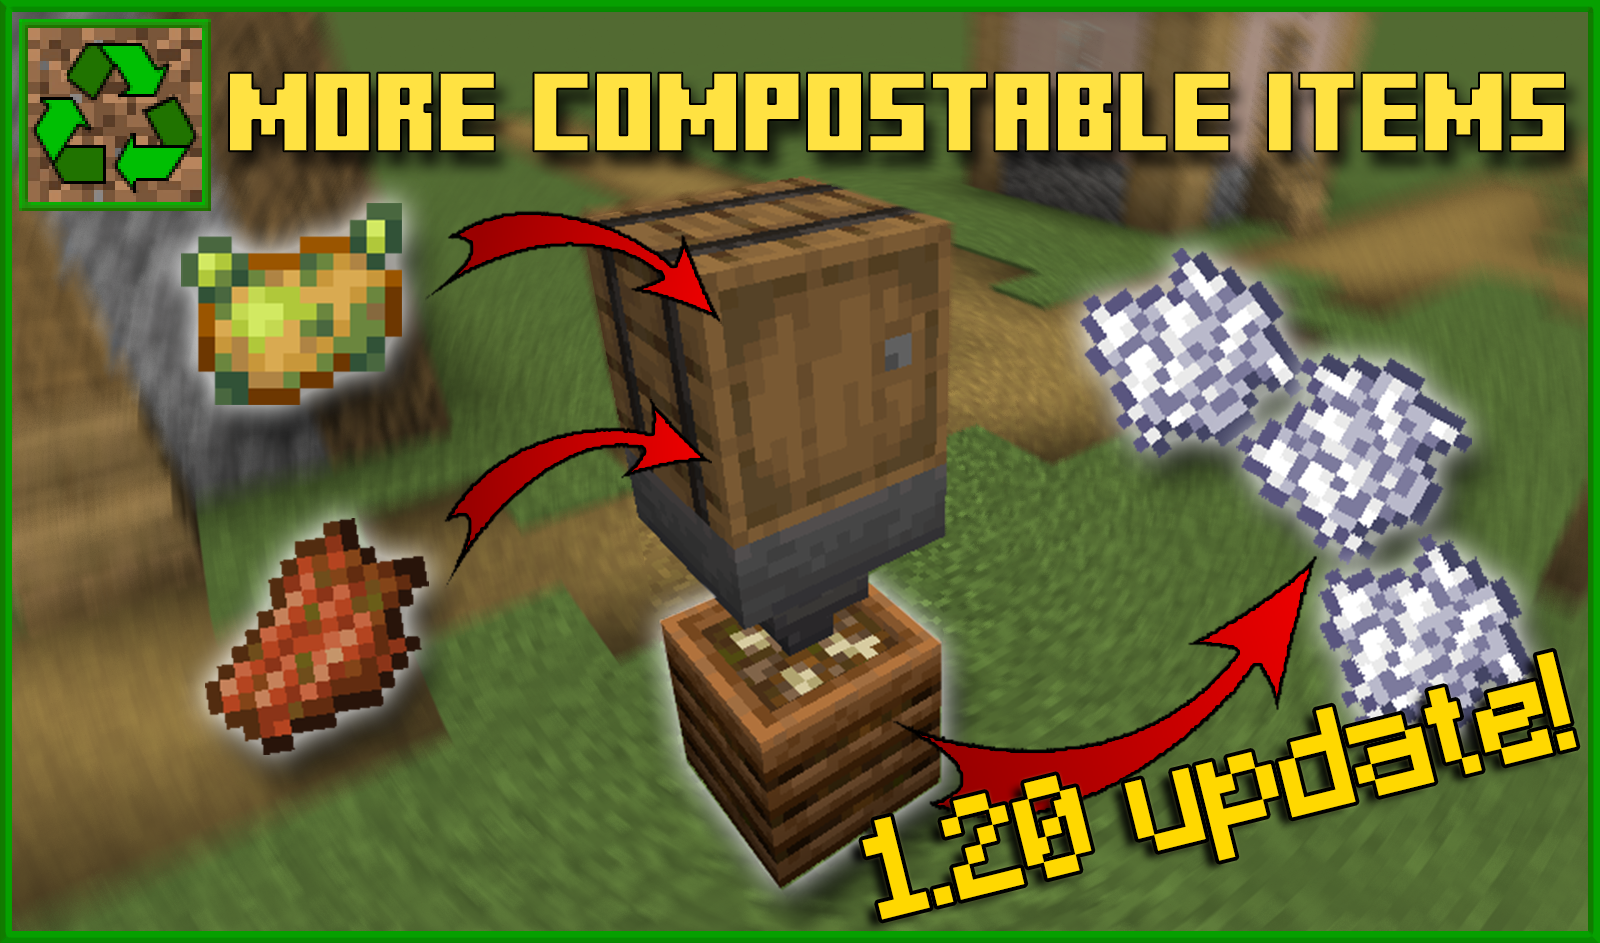
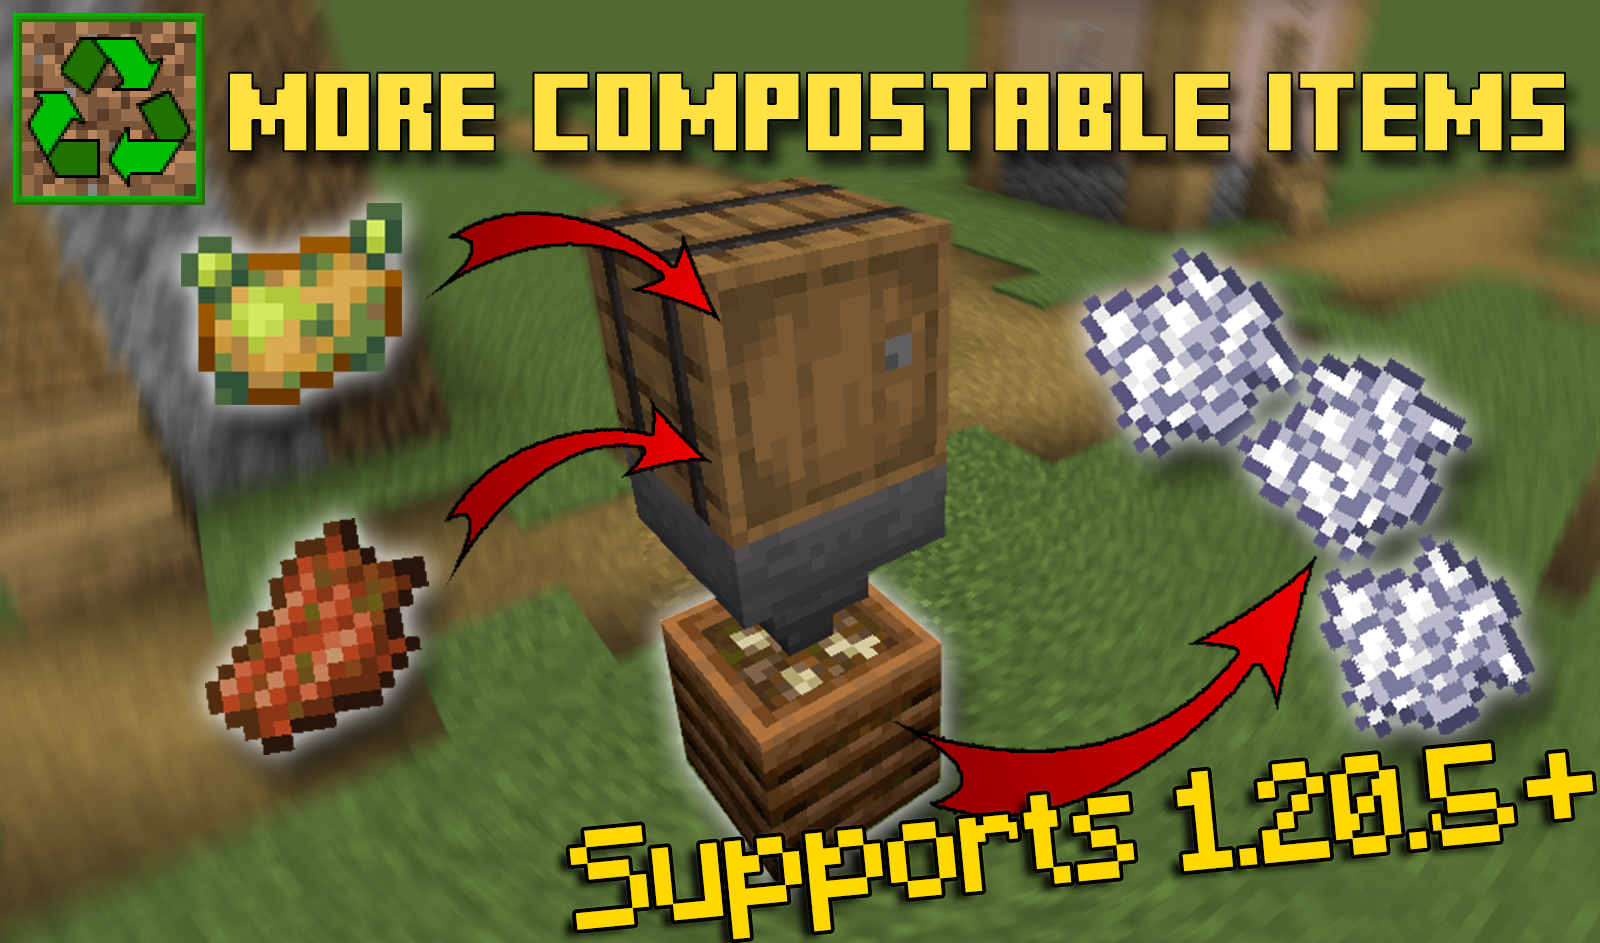
more compostable items 1.3 update

Changed region(s): [[0.0, 0.0, 1.0, 1.0]]

diff --git a/pages/recyclecraft/more_compostable_items.md b/pages/recyclecraft/more_compostable_items.md
@@ -4,20 +4,20 @@ keywords: minecraft, datapack
 tags: [datapack, recyclecraft, standalone, QoL]
 sidebar: home_sidebar
 toc: true
-last_updated: 02/Jan/2024
+last_updated: 26/Apr/2024
 permalink: more_compostable_items.html
 published: true
 github: https://github.com/daenvil/more_compostable_items/
 pmc: https://www.planetminecraft.com/data-pack/more-compostable-items/
 first_release: ["18","Jan","2022"]
-last_release: ["02","Jan","2024"]
+last_release: ["26","Apr","2024"]
 logo: recyclecraft/more_compostable_items/pack.png
 intro: "This datapack aims to add composting mechanics to all vanilla items which <i>should</i> be compostable, while being as close as possible to vanilla mechanics."
 abstract: "Adds composting mechanics to all vanilla items which should be compostable."
 priority: 1
 index: 6
-downloads: 3894
-downloads_str: "&gt;3.8k"
+downloads: 4500
+downloads_str: "&gt;4.5k"
 thumbnail: recyclecraft/more_compostable_items/thumbnail.png
 gallery: [images/recyclecraft/more_compostable_items/thumbnail.png]
 ---
@@ -27,16 +27,24 @@ gallery: [images/recyclecraft/more_compostable_items/thumbnail.png]
 Choose the option compatible with your Minecraft version:
 
 <ul id="profileTabs" class="nav nav-tabs">
-    <li class="active"><a href="#current" data-toggle="tab">1.20+</a></li>
+    <li class="active"><a href="#current" data-toggle="tab">1.20.5+</a></li>
+    <li><a href="#legacy-1-20" data-toggle="tab">1.20–1.20.4</a></li>
     <li><a href="#legacy" data-toggle="tab">1.16.2–1.19.4</a></li>
 </ul>
 
 <div class="tab-content">
     <div role="tabpanel" class="tab-pane active" id="current">
         <p>
-            {% include dp_badges.html supports="1.20+" tested="1.20, 1.20.4" %}
+            {% include dp_badges.html supports="1.20.5+" tested="1.20.5" %}
             <br/>
-            {% include dp_download.html version="v1.2" pmc-url="https://www.planetminecraft.com/data-pack/more-compostable-items/" github-url="https://github.com/daenvil/more_compostable_items/releases/download/v1.2.1/more_compostable_items_v1.2.1.zip" %}
+            {% include dp_download.html version="v1.3" pmc-url="https://www.planetminecraft.com/data-pack/more-compostable-items/" github-url="https://github.com/daenvil/more_compostable_items/releases/download/v1.3/more_compostable_items_v1.3.zip" %}
+        </p>
+    </div>
+    <div role="tabpanel" class="tab-pane" id="legacy-1-20">
+        <p>
+            {% include dp_badges.html supports="1.20–1.20.4" tested="1.20, 1.20.4" %}
+            <br/>
+            {% include dp_download.html version="v1.2.1" github-url="https://github.com/daenvil/more_compostable_items/releases/download/v1.2.1/more_compostable_items_v1.2.1.zip" discontinued=true %}
         </p>
     </div>
     <div role="tabpanel" class="tab-pane" id="legacy">
@@ -79,7 +87,7 @@ New compostable items, including rotten flesh, poisonous potatoes, foods, and ma
 </li><li>Spider eye
 </li><li>Fermented spider eye
 </li><li>Phantom membrane
-</li><li>Scute
+</li><li>Turtle and armadillo scutes
 </li><li>Rabbit hide
 </li><li>Bamboo
 </li><li>String
@@ -110,10 +118,7 @@ New compostable items, including rotten flesh, poisonous potatoes, foods, and ma
 </li><li>Goat horn
 </li><li>Muddy mangrove roots</li></ul>' id='30-chance' %}
  
-{% include collapsible.html title='50% chance:' content='<ul><li>Raw/cooked chicken, cod, mutton, porkchop, rabbit, beef, and salmon
-</li><li>Rabbit\'s foot
-</li><li>Pufferfish
-</li><li>Tropical fish
+{% include collapsible.html title='50% chance:' content='<ul><li>Cooked chicken, cod, mutton, porkchop, rabbit, beef, and salmon
 </li><li>Crimson/warped nylium</li></ul>' id='50-chance' %}
 
 {% include collapsible.html title='65% chance:' content='<ul><li>Poisonous potato
@@ -133,7 +138,7 @@ New compostable items, including rotten flesh, poisonous potatoes, foods, and ma
 
 ### Known issues (and solutions)
 
-- **Custom-composting only works with composters that are placed by players**. This means that it wont work with world-generated composters, with composters summoned via commands, or with composters placed *before* the datapack was installed. Simply **break a composter and place it again manually to make the datapack register it**.
+- **Custom-composting via hoppers only works with composters that are placed by players**. This means that it won't work with world-generated composters, with composters summoned via commands, or with composters placed *before* the datapack was installed. Simply **break a composter and place it again manually to make the datapack register it**.
 - The datapack might have trouble detecting a placed composter if you are moving very fast while placing it. This shouldn't be a problem as long as you are not MLG-360-no-scoping composters. If a composter is not working, just break it and place it again while not moving.
 - Some things are hardcoded in this datapack, which means that it can interact in unexpected ways with mods that alter vanilla mechanics:
   - Hopper-custom-composting uses the hopper built-in <code>TransferCooldown</code> variable, so it might conflict with any mod or datapack that changes the vanilla behaviour of hopper cooldowns.
@@ -141,7 +146,7 @@ New compostable items, including rotten flesh, poisonous potatoes, foods, and ma
 
 ### Adding new compostable items
 
-This datapack provides item tags for 10%, 30%, 50%, 65%, 85%, and 100% composting chances. You can find their .json files in <code>&lt;this datapack&gt;/data/dnv.recyclecraft/tags/items/</code>. If you want to customize the datapack for your own use, edit those files however you want.
+This datapack provides item tags for 10%, 30%, 50%, 65%, 85%, and 100% composting chances. You can find their .json files in <code>&lt;this datapack&gt;/data/dnv.compost/tags/items/</code>. If you want to customize the datapack for your own use, edit those files however you want.
 
 {% include comments/important.html content='There is another item tag for vanilla-compostable items, do not edit that one unless you know what you are doing. It is used to detect when a hopper is containing them as to not overlap vanilla-composting with custom-composting, otherwise, both mechanics would function at the same time, breaking the intended effect of this datapack.' %}
 
@@ -167,7 +172,7 @@ In vanilla, you right-click a composter with a compostable item to compost it. A
 
 So to mimic this, we have multiple options:
 - Right-click can be detected with food items, since it's the way you eat them. Theoretically, this could be used to detect when you press right-click with a food item in your hand while facing a composter, and use that to compost the item. However this has two short-comings: it's not an universal solution (we would have to find an alternative for non-food items), and would only work when the player is hungry.
-- Right-click *can* be detected by using more complex methods like invisible villagers, item frames, etc. However, these methods have their shortcomings and I do not wish to have to use something as complex as that for something so simple and common as composting items.
+- Right-click *can* be detected by using more complex methods like invisible villagers, item frames, etc. However, these methods have their shortcomings and I do not wish to have to use something as complex as that for something so simple and common as composting items. With the introduction of the interaction entity, I hoped that this would be fixed, but the interaction entity blocks any interactions through it, which means that you would not be able to place blocks against a composter, since the interaction entity would be blocking your right click.
 - Instead of right-clicking, dropping the items *inside* the composter. This can be easily detected and is the method already used by the other custom composting datapacks I found. It's not the same as the vanilla mechanic, but it's probably the best method we have. This was the chosen approach for this datapack, and I decided to also make vanilla-compostable items compostable this way, for consistency.
 
 ### Interacting with composters via hoppers
@@ -184,4 +189,4 @@ In vanilla, composting can be automated by placing hoppers on top and below the 
 
 Some extra details need to be taken into account, like hopper cooldown, stopping custom composting when the composter is full, different composting chances for each item, etc.
 
-In principle, this method should emulate perfectly the behaviour of vanilla composters with any item you want to add, the only short-coming it has right now is that vanilla items are still hardcoded, so it is impossible to change their random composting chances or make them non-compostable. They also have to be manually added to an item tag (<code>dnv.recyclecraft:vanilla-compostable</code>) in order to take them into account in the algorithm, so this could create conflicts with any mod which adds new items which are vanilla-compostable and are not added to that item tag (also, I have to manually add any new compostable item with each Minecraft major update). The effect of such conflict is making hoppered composters be able to process vanilla and custom-compostable items at the same time, though, so it doesn't break anything important, it just doubles the composting speed in the specific case where the hopper contains a custom-compostable item and a vanilla-compostable item which is not in the vanilla-compostable tag at the same time.
+In principle, this method should emulate perfectly the behaviour of vanilla composters with any item you want to add, the only short-coming it has right now is that vanilla items are still hardcoded, so it is impossible to change their random composting chances or make them non-compostable. They also have to be manually added to an item tag in order to take them into account in the algorithm, so this could create conflicts with any mod which adds new items which are vanilla-compostable and are not added to that item tag (also, I have to manually add any new compostable item with each Minecraft major update). The effect of such conflict is making hoppered composters be able to process vanilla and custom-compostable items at the same time, though, so it doesn't break anything important, it just doubles the composting speed in the specific case where the hopper contains a custom-compostable item and a vanilla-compostable item which is not in the vanilla-compostable tag at the same time.

diff --git a/_posts/2024-04-26-more_compostable_items_v1.3.md b/_posts/2024-04-26-more_compostable_items_v1.3.md
@@ -1,0 +1,18 @@
+---
+title:  "More Compostable Items - v1.3 update"
+published: true
+permalink: more_compostable_items_v1.3.html
+summary: "Compatibility with MC1.20.5 + excluded raw meats + added armadillo scute + optimization"
+tags: [news,changelog,recyclecraft]
+datapack: more_compostable_items
+changelog: v3
+---
+
+As I told you [on the 1.20.5 update post](update_MC1.20.5.html), Minecraft 1.20.5 introduced a lot of changes in the technical side of datapacks. I'm slowly getting everything up to date. [Cuttable wood](cuttable_wood.html) and [Better Stonecutter](better_stonecutter.html) were already updated. Now is the turn of *More Compostable Items*.
+
+This is a mostly technical update, fixing compatibility with the new Minecraft update and optimizing the datapack functions a bit. Feature-wise, I added compostability support to the new **armadillo scute**, and removed raw animal meats from the compostable items, since I found out they are not composted in real life.
+
+<div class="btn-group">
+    <a href="more_compostable_items_v1.1.html" role="button" class="btn btn-primary"><i class="fa fa-caret-left"></i>&nbsp; Previous release: v1.2.1</a>
+    <button role="button" class="btn btn-default disabled">Next release: TBR &nbsp;<i class="fa fa-caret-right"></i> </button>
+</div>

diff --git a/_posts/2024-01-02-more_compostable_items_v1.2.1.md b/_posts/2024-01-02-more_compostable_items_v1.2.1.md
@@ -11,6 +11,6 @@ changelog: v1.2.1
 Just a small update to fix compatibility issues with the latest updates. Also fixed a bug that I didn't catch until now.
 
 <div class="btn-group">
-    <a href="more_compostable_items_v1.1.html" role="button" class="btn btn-primary"><i class="fa fa-caret-left"></i>&nbsp; Previous release: v1.2</a>
-    <button role="button" class="btn btn-default disabled">Next release: TBR &nbsp;<i class="fa fa-caret-right"></i> </button>
+    <a href="more_compostable_items_v1.2.html" role="button" class="btn btn-primary"><i class="fa fa-caret-left"></i>&nbsp; Previous release: v1.2</a>
+    <a href="more_compostable_items_v1.3.html" role="button" class="btn btn-primary">Next release: v1.3 &nbsp;<i class="fa fa-caret-right"></i></a>
 </div>

diff --git a/pages/recyclecraft/cuttable_wood.md b/pages/recyclecraft/cuttable_wood.md
@@ -17,7 +17,7 @@ abstract: "Makes wood blocks cuttable in the stonecutter, to make the crafting o
 priority: 2
 index: 1
 downloads: 15100
-downloads_str: "&gt;15.1k"
+downloads_str: "&gt;15k"
 gallery: [images/recyclecraft/cuttable_wood/thumbnail-mc1.20.5.png,images/recyclecraft/cuttable_wood/thumbnail-mc1.20.png,https://static.planetminecraft.com/files/image/minecraft/data-pack/2023/836/16842581_l.webp,https://static.planetminecraft.com/files/image/minecraft/data-pack/2023/836/16842582_l.webp,https://static.planetminecraft.com/files/image/minecraft/data-pack/2023/836/16842585_l.webp,https://static.planetminecraft.com/files/image/minecraft/data-pack/2021/836/15140459-screenshot-at_l.webp]
 ---
 

diff --git a/_includes/changelogs/more_compostable_items/v1.3.md b/_includes/changelogs/more_compostable_items/v1.3.md
@@ -1,0 +1,6 @@
+
+- Raw animal meats are no longer compostable.
+- Armadillo scute is compostable with 10% chance.
+- Composting by dropping now also works on naturally generated composters.
+- Slightly improved composting particle effect.
+- Optimized functions.
